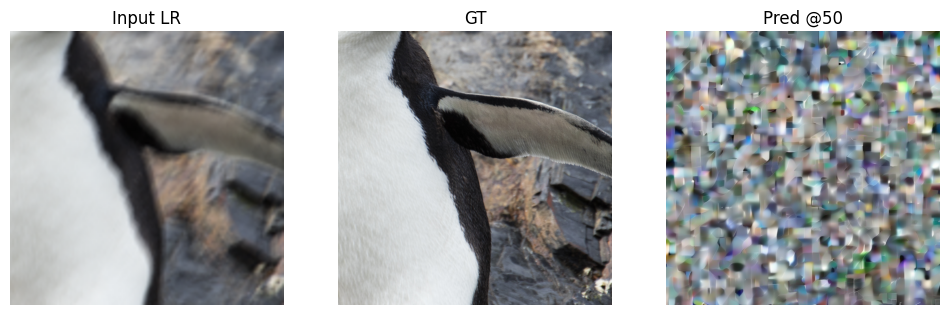
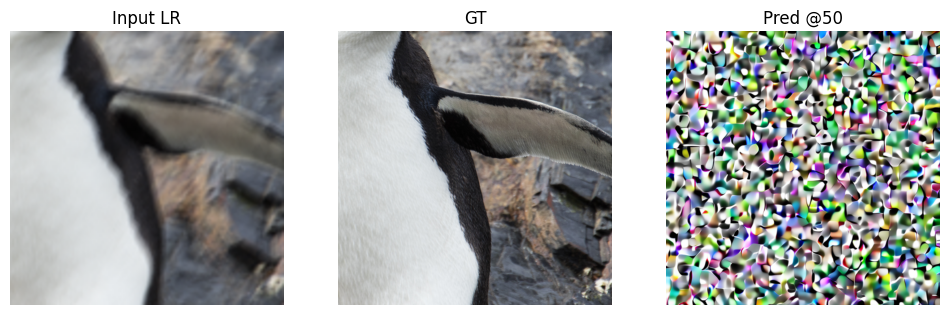
bad

Changed region(s): [[0.7021, 0.0857, 1.0, 0.9714]]

diff --git a/train_scripts/train_sigma_sr_vpred.py b/train_scripts/train_sigma_sr_vpred.py
@@ -107,15 +107,15 @@ NUM_WORKERS = 8
 LR_BASE = 1e-5 
 LORA_RANK = 16
 LORA_ALPHA = 16
-TRAIN_PIXART_X_EMBEDDER = False  # keep False for "LoRA + injection modules only" training
+TRAIN_PIXART_X_EMBEDDER = True  # enable concat LR latent path learning in x_embedder
 SPARSE_INJECT_RATIO = 1.0
 INJECTION_CUTOFF_LAYER = 28
 INJECTION_STRATEGY = "full"
 
 # [V8 Augmentation]
-COND_AUG_NOISE_RANGE = (0.0, 0.15) 
+COND_AUG_NOISE_RANGE = (0.0, 0.05) 
 
-WARMUP_STEPS = 4000        
+WARMUP_STEPS = 4000         
 RAMP_UP_STEPS = 5000         
 TARGET_LPIPS_WEIGHT = 0.50
 LPIPS_BASE_WEIGHT = 0.0      
@@ -1065,7 +1065,7 @@ def main():
     if "x_embedder.proj.weight" in base and base["x_embedder.proj.weight"].shape[1] == 4:
         w4 = base["x_embedder.proj.weight"]
         w8 = torch.zeros((w4.shape[0], 8, w4.shape[2], w4.shape[3]), dtype=w4.dtype)
-        w8[:, :4] = w4; base["x_embedder.proj.weight"] = w8
+        w8[:, :4] = w4; w8[:, 4:] = w4 * 0.5; base["x_embedder.proj.weight"] = w8
     if hasattr(pixart, "load_pretrained_weights_with_zero_init"):
         pixart.load_pretrained_weights_with_zero_init(base)
     else:
